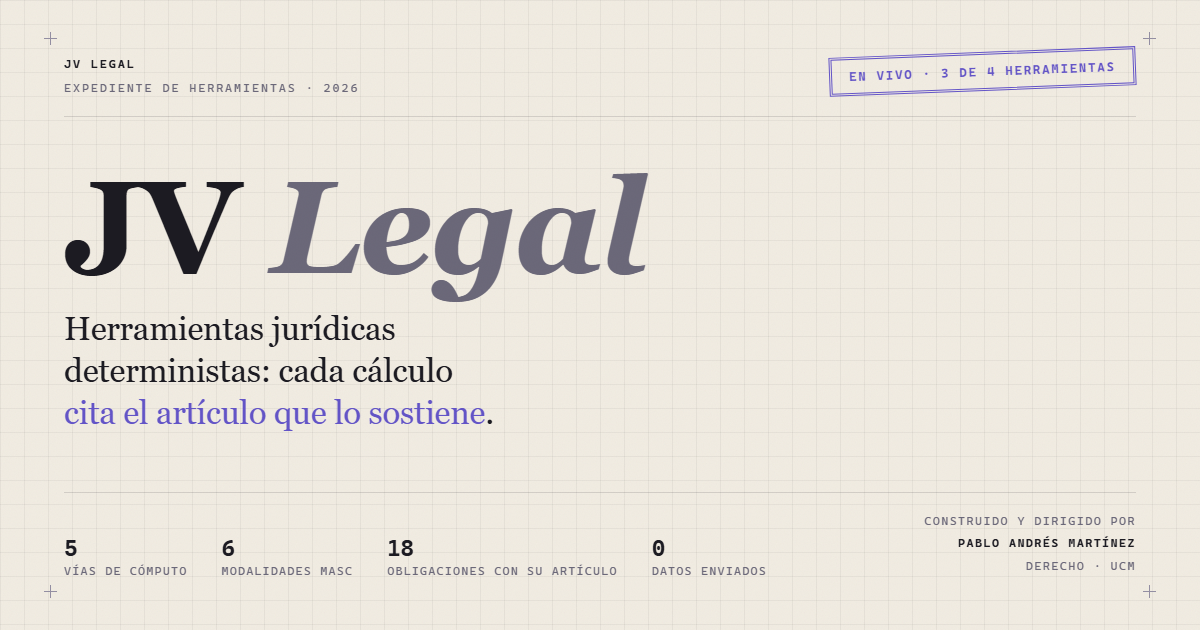
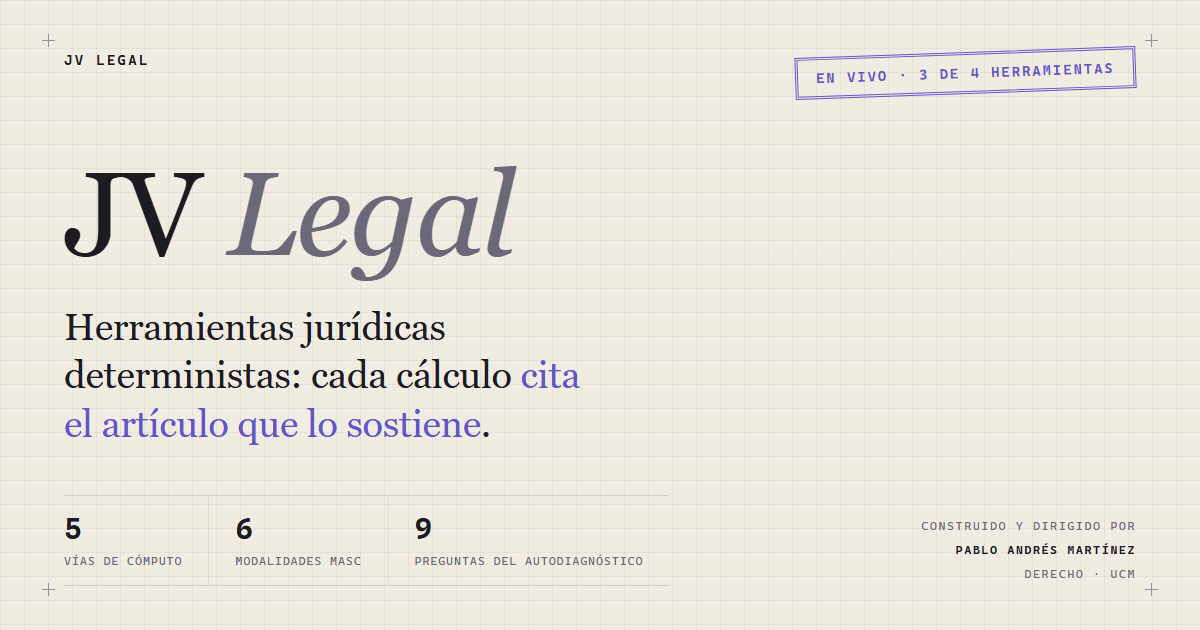
fix(showcase): regenerate og.png to match current hero + honesty and mobile fixes
Adversarial review findings:
- assets/og.png still carried the three removed claims (header line,
  18 obligations, privacy boast); regenerated 1200x630 from the live
  hero: JV LEGAL header only, 5/6/9 band, same design tokens
- autodiagnostico.html: restore the storage disclosure (localStorage)
  in the notice and the footer; the tool does persist answers
- README.md: drop '100% browser / no data stored' and '18 obligations'
  wording; now consistent with the landing and accurate about storage
- index.html: third hero-band cell spans full row on mobile;
  clock bullet now explains the five tracks in plain Spanish instead
  of duplicating the chip; semaforo detail no longer repeats the chip;
  full university name restored in the bio; STS counter gloss says
  'en el registro' (only 2 of 4 rulings render inside the tools)

diff --git a/index.html b/index.html
@@ -205,6 +205,7 @@ html.anim .rev.visto{opacity:1;transform:none;transition:opacity .6s var(--curva
   .banda div{border-left:0;border-top:var(--pelo-suave);padding-left:0;padding-right:14px}
   .banda div:nth-child(-n+2){border-top:0}
   .banda div:nth-child(2){padding-left:16px;border-left:var(--pelo-suave)}
+  .banda div:nth-child(3){grid-column:1/-1}
 }
 
 /* ── Subrayado que se dibuja bajo los titulares ────────────────────────── */
@@ -393,7 +394,8 @@ html.anim .visto .boli path{stroke-dashoffset:0;transition:stroke-dashoffset .9s
 
     <p class="claim rev">Herramientas jurídicas deterministas: cada cálculo <b><span class="circulado">cita el artículo<svg class="boli" viewBox="0 0 200 60" preserveAspectRatio="none" aria-hidden="true" focusable="false"><path pathLength="1" d="M16 41C5 23 41 8 100 7 160 6 195 20 192 32c-3 14-44 23-96 22C44 53 10 46 12 31 14 17 53 8 105 9c53 1 85 12 84 25-1 13-49 23-101 21-36-1-64-6-75-13"/></svg></span> que lo sostiene</b>.</p>
 
-    <p class="honesto rev">Las construye Pablo Andrés Martínez, estudiante de Derecho en la UCM,
+    <p class="honesto rev">Las construye Pablo Andrés Martínez, estudiante de Derecho en la
+      Universidad Complutense de Madrid,
       dirigiendo el desarrollo con metodologías de IA agéntica. El proyecto está en construcción;
       lo que ya está publicado funciona hoy.</p>
 
@@ -436,7 +438,7 @@ html.anim .visto .boli path{stroke-dashoffset:0;transition:stroke-dashoffset .9s
             <p class="menudo">Introduces la notificación y el plazo; devuelve el vencimiento y el
               razonamiento paso a paso, con su artículo en cada paso.</p>
             <ul class="rasgos">
-              <li>Cómputo en <b>cinco vías</b>: LEC, LJCA, LJS, LECrim y LPAC.</li>
+              <li>Cómputo en <b>cinco vías</b>: civil, contencioso, social, penal y administrativa.</li>
               <li><b>Día de gracia del art. 135.5 LEC</b>: hasta las 15:00 del día hábil siguiente.</li>
             </ul>
             <details class="detalle">
@@ -548,7 +550,7 @@ html.anim .visto .boli path{stroke-dashoffset:0;transition:stroke-dashoffset .9s
               <summary>Ver detalle</summary>
               <div class="dentro">
                 <p>A diferencia de las otras tres, esta piensa con un modelo de lenguaje, y por eso
-                  todavía no se publica abierta: va en despliegue controlado. La salida es siempre un
+                  todavía no se publica abierta. La salida es siempre un
                   borrador para revisión humana, nunca un dictamen.</p>
               </div>
             </details>
@@ -584,7 +586,7 @@ html.anim .visto .boli path{stroke-dashoffset:0;transition:stroke-dashoffset .9s
       <div class="rev">
         <div class="marcador">
           <div><p class="cifra-xl" data-cuenta="26">26</p><p class="glosa">Artículos citados<br>en pantalla</p></div>
-          <div><p class="cifra-xl" data-cuenta="4">4</p><p class="glosa">Sentencias del<br>Tribunal Supremo</p></div>
+          <div><p class="cifra-xl" data-cuenta="4">4</p><p class="glosa">Sentencias del Supremo<br>en el registro</p></div>
           <div><p class="cifra-xl" data-cuenta="11">11</p><p class="glosa">Normas distintas<br>aplicadas</p></div>
         </div>
 

diff --git a/autodiagnostico.html b/autodiagnostico.html
@@ -113,7 +113,7 @@
   </header>
   <p class="sub">¿Puedo lanzar ya mi SaaS? · Responde 9 preguntas y se encienden tus deberes</p>
 
-  <div class="aviso"><b>Orientativo, no asesoramiento jurídico.</b> Herramienta de triaje para saber QUÉ te aplica y preparar la consulta con un abogado/a. No introduzcas datos reales de clientes. Los importes y artículos son los vigentes a la fecha de corte; verifica la norma antes de actuar.</div>
+  <div class="aviso"><b>Orientativo, no asesoramiento jurídico.</b> Herramienta de triaje para saber QUÉ te aplica y preparar la consulta con un abogado/a. No introduzcas datos reales de clientes. Los importes y artículos son los vigentes a la fecha de corte; verifica la norma antes de actuar. Tus respuestas quedan solo en este navegador (localStorage); nada se envía a ningún servidor.</div>
   <p class="corte">Base: checklist España/UE de <b>18 puntos</b>, re-analizado <b>12-07-2026</b> · Origen: reel «5 requisitos legales para lanzar un SaaS» (@eriktaveras) · Diferencial: la rama de <b>dato de salud (art. 9 RGPD)</b> que el reel US omite.</p>
 
   <!-- ================= BLOQUE A · ÁRBOL DE DECISIÓN ================= -->
@@ -298,7 +298,9 @@
 
   <footer>
     <b>SALIDA ORIENTATIVA · NO ES ASESORAMIENTO JURÍDICO NI DICTAMEN.</b> Herramienta de triaje para preparar la consulta con abogado/a.<br>
-    CARÁTULA DE EXPEDIENTE · CHECKLIST ES/UE DE 18 PUNTOS (12-07-2026).
+    CARÁTULA DE EXPEDIENTE · CHECKLIST ES/UE DE 18 PUNTOS (12-07-2026).<br>
+    TUS RESPUESTAS QUEDAN SOLO EN ESTE NAVEGADOR (localStorage) · NADA SE ENVÍA A NINGÚN SERVIDOR.
+
   </footer>
 </div>
 

diff --git a/README.md b/README.md
@@ -1,15 +1,16 @@
 # JV Legal — herramientas juridicas deterministas
 
-Cada calculo cita el articulo que lo sostiene. 100% navegador: sin servidor, sin cookies,
-sin terceros, sin guardar datos.
+Cada calculo cita el articulo que lo sostiene. Todo corre en el navegador, sin servidor,
+sin cookies y sin terceros; el autodiagnostico guarda su progreso solo en el localStorage
+del propio navegador (nada se envia).
 
 - **`index.html`** — showcase: que es JV Legal, las cuatro herramientas y el metodo
   (primero el dictamen juridico, despues el codigo).
 - **`suite.html`** — suite en vivo: reloj de plazos procesales (5 vias: civil, penal,
   contencioso, social + LPAC) y calculadora del efecto de los MASC (LO 1/2025) sobre
   prescripcion y caducidad, con su articulo en cada paso.
-- **`autodiagnostico.html`** — autodiagnostico de lanzamiento SaaS (ES/UE): 9 preguntas,
-  18 obligaciones con articulo y sancion, veredicto con sello de expediente.
+- **`autodiagnostico.html`** — autodiagnostico de lanzamiento SaaS (ES/UE): 9 preguntas
+  y veredicto con sello de expediente; cada rama con su articulo y su sancion.
 
 El semaforo de clausulas (triaje con IA) no se publica: requiere clave de acceso y su
 salida es siempre un borrador para revision, no consejo juridico.
